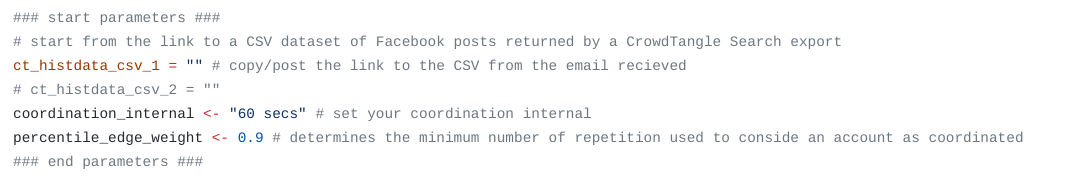
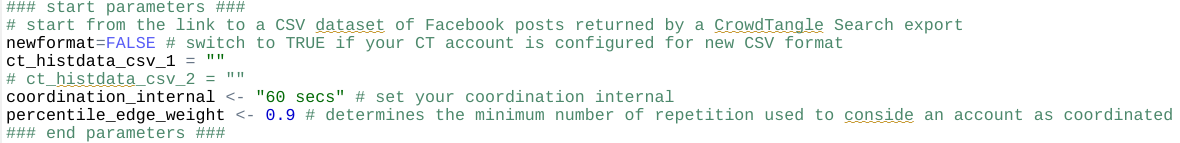
updated documentation and fixed typos

Changed region(s): [[0.0, 0.0, 1.0, 0.979]]

diff --git a/README.md b/README.md
@@ -36,7 +36,9 @@ Copy the link to the CSV file (you may also want to download it as the file won'
 
 ![](images/img3.png)
 
-You may want to customize the coordination_interval (time in second between the share of the same image to label it as a rapid share) and the percentile_edge_weight (in a nutshell is the quantile used to cut the network by including only accounts that performed rapid share of the same images repetedly) parameter to fine-tune your results.
+Please ensure that newformat parameter matches the CSV format (with - FALSE - or without spaces - TRUE - in the field names) configured for your CrowdTangle account/team/dashboard.
+
+You may want to customize the coordination_interval (time in second between the share of the same image to label it as a rapid share) and the percentile_edge_weight (in a nutshell is the quantile used to cut the network by including only accounts that performed rapid share of the same images repeatedly) parameter to fine-tune your results.
 
 Run the script and wait patiently that the progress bar reaches 100%. Ones finished, your Environment should resemble something like this:
 
